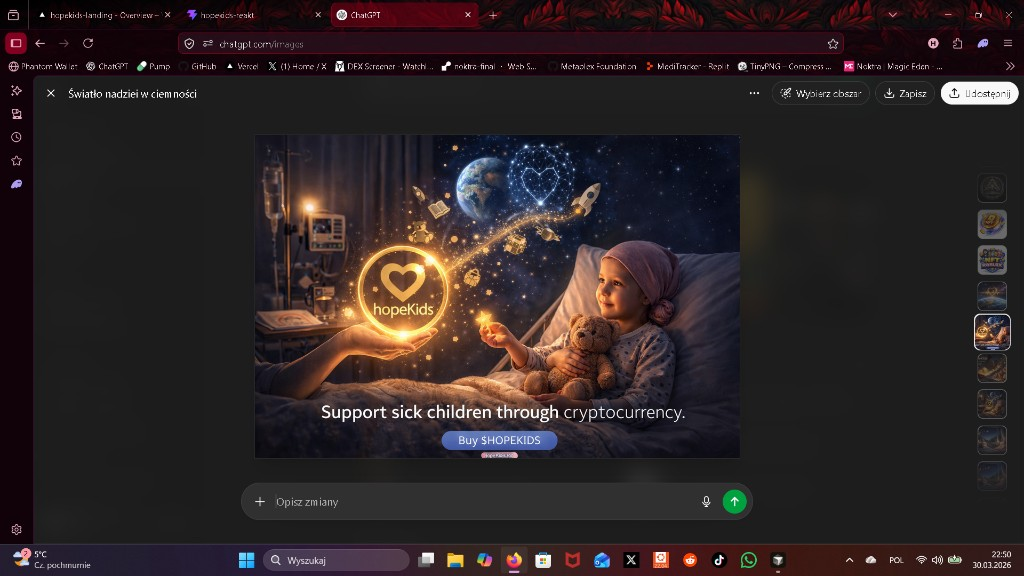
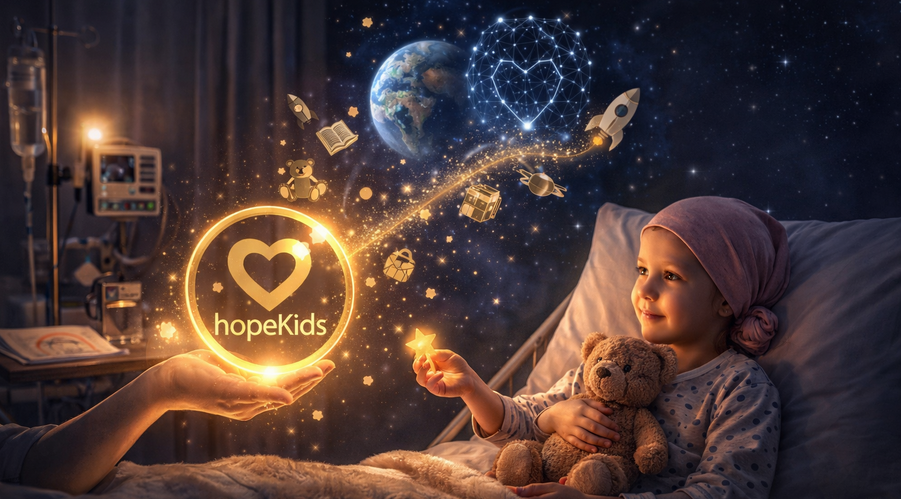
feat(hero): nowa grafika + zlanie z panelem (maska, bleed, object-cover)
Made-with: Cursor

diff --git a/src/HopeKidsLandingPage.jsx b/src/HopeKidsLandingPage.jsx
@@ -219,6 +219,47 @@ export default function HopeKidsLandingPage() {
           box-shadow: 0 0 8px rgba(165, 243, 252, 0.6);
         }
 
+        /* Hero illustration: fade into panel (text column + outer card edge) */
+        .hk-hero-art-blend {
+          -webkit-mask-image: linear-gradient(
+            90deg,
+            transparent 0%,
+            rgba(0, 0, 0, 0.88) 14%,
+            #000 92%,
+            transparent 100%
+          );
+          mask-image: linear-gradient(
+            90deg,
+            transparent 0%,
+            rgba(0, 0, 0, 0.88) 14%,
+            #000 92%,
+            transparent 100%
+          );
+          -webkit-mask-size: 100% 100%;
+          mask-size: 100% 100%;
+          -webkit-mask-repeat: no-repeat;
+          mask-repeat: no-repeat;
+        }
+
+        @media (min-width: 1024px) {
+          .hk-hero-art-blend {
+            -webkit-mask-image: linear-gradient(
+              90deg,
+              transparent 0%,
+              rgba(0, 0, 0, 0.94) 5%,
+              #000 90%,
+              transparent 100%
+            );
+            mask-image: linear-gradient(
+              90deg,
+              transparent 0%,
+              rgba(0, 0, 0, 0.94) 5%,
+              #000 90%,
+              transparent 100%
+            );
+          }
+        }
+
         @media (prefers-reduced-motion: reduce) {
           .hopekids-title-glare,
           .hopekids-aurora-a,
@@ -308,8 +349,8 @@ export default function HopeKidsLandingPage() {
               <div className="absolute bottom-0 left-0 right-0 h-40 bg-[linear-gradient(180deg,transparent,rgba(0,0,0,0.45))]" />
               <div className="absolute right-10 top-8 h-[280px] w-[280px] rounded-full bg-[radial-gradient(circle,rgba(59,130,246,0.35),transparent_58%)] blur-2xl animate-pulse" />
 
-              <div className="relative z-10 grid items-center gap-8 lg:grid-cols-2 lg:gap-12">
-                <div className="text-center lg:text-left">
+              <div className="relative z-10 grid items-stretch gap-8 lg:grid-cols-2 lg:gap-6">
+                <div className="flex flex-col justify-center text-center lg:text-left">
                   <h1 className="hopekids-title-glare text-4xl font-extrabold sm:text-5xl lg:text-6xl">HopeKids</h1>
                   <p className="mt-4 text-lg font-semibold leading-snug text-blue-50 sm:mt-5 sm:text-xl lg:text-2xl">
                     Support sick children through cryptocurrency.
@@ -341,12 +382,13 @@ export default function HopeKidsLandingPage() {
                   </div>
                 </div>
 
-                <div className="relative flex min-h-[200px] w-full justify-center lg:min-h-0 lg:items-center lg:justify-end">
-                  <div className="relative z-10 w-full lg:max-w-none">
+                <div className="relative flex w-full">
+                  {/* Bleed into panel padding + soft masks so art merges with card (dark edges → panel bg) */}
+                  <div className="relative z-10 min-h-[min(52vh,380px)] w-full flex-1 overflow-hidden rounded-2xl sm:rounded-[22px] lg:-mb-14 lg:-mr-12 lg:-mt-10 lg:min-h-[min(64vh,520px)] lg:rounded-br-[28px] lg:rounded-tr-[28px] lg:rounded-bl-none lg:rounded-tl-none">
                     <img
                       src={HERO_ILLUSTRATION_SRC}
                       alt="HopeKids hero illustration"
-                      className="block h-auto w-full max-h-[min(85vh,720px)] object-contain object-center"
+                      className="hk-hero-art-blend absolute inset-0 h-full w-full object-cover object-[68%_center] sm:object-[65%_center] lg:object-[62%_center]"
                       loading="eager"
                       decoding="async"
                     />
